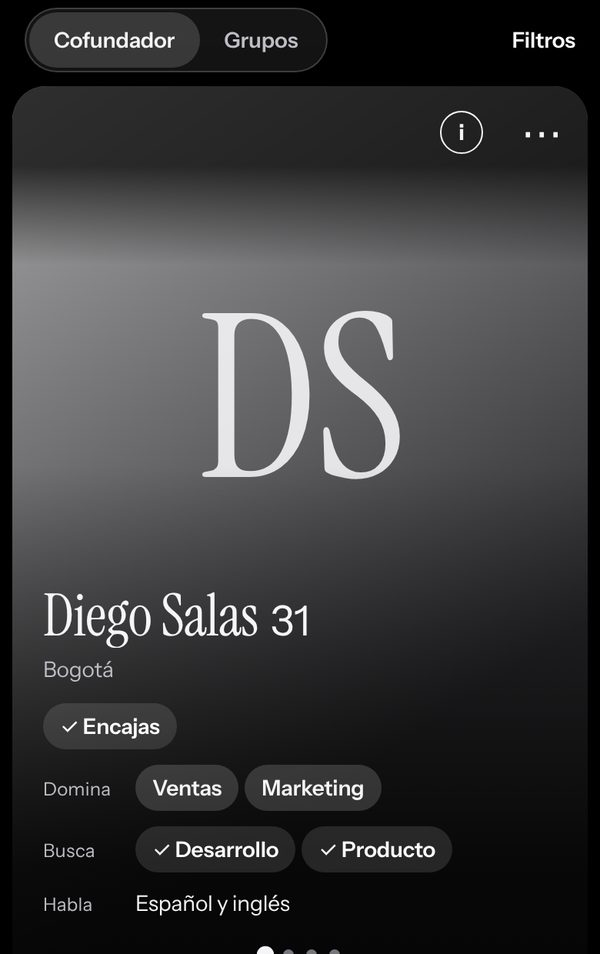
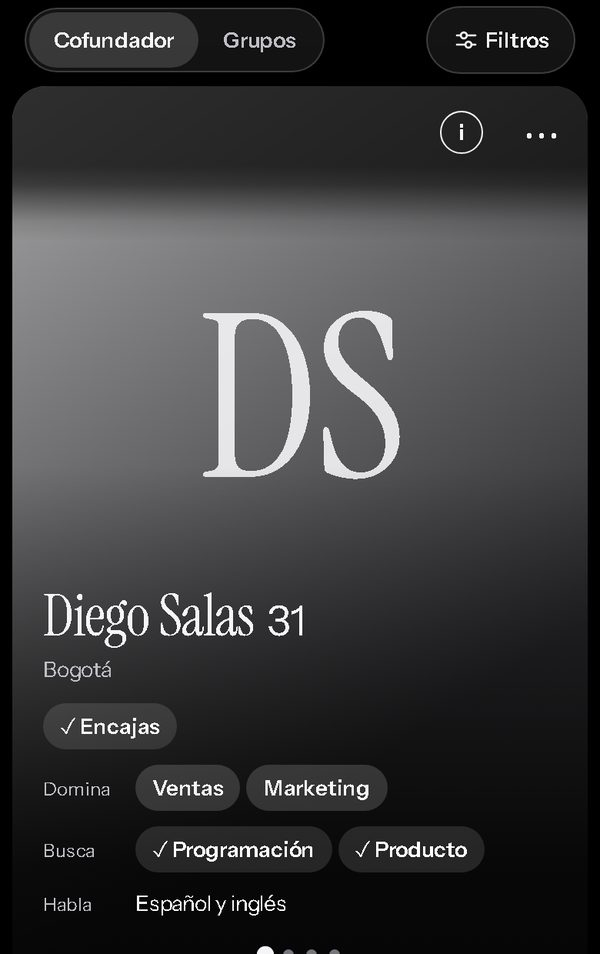
fix: conserva los borradores de grupos y recupera las fotos huérfanas

diff --git a/src/features/profile/project-editor.tsx b/src/features/profile/project-editor.tsx
@@ -68,6 +68,7 @@ export function ProjectEditor({
   matchId,
   groupProject = false,
   createWithGroup,
+  initialDraft,
   header,
   onClose,
   onSaved,
@@ -77,15 +78,16 @@ export function ProjectEditor({
   matchId?: string;
   groupProject?: boolean;
   /** El grupo y su proyecto se guardan juntos tras moderar todas las fotos. */
-  createWithGroup?: (draft: ProjectInput, draftId: string) => Promise<void>;
+  createWithGroup?: (draft: ProjectInput) => Promise<void>;
+  initialDraft?: ProjectInput;
   /** Controles propios de quien abre el editor, encima del formulario. */
   header?: ReactNode;
-  onClose: () => void;
+  onClose: (draft: ProjectInput) => void;
   onSaved: () => void;
 }) {
   const { projects } = useRepositories();
   const isJoint = !!matchId || (project?.authors?.length ?? 0) > 1;
-  const [draft, setDraft] = useState<ProjectInput>(project ?? empty);
+  const [draft, setDraft] = useState<ProjectInput>(project ?? initialDraft ?? empty);
   const [details, setDetails] = useState(false);
   const [confirm, setConfirm] = useState(false);
   const [busy, setBusy] = useState(false);
@@ -165,7 +167,7 @@ export function ProjectEditor({
   return (
     <ProjectBottomSheet
       onClose={() => {
-        if (!busy) onClose();
+        if (!busy) onClose(draft);
       }}>
       <ScrollView keyboardShouldPersistTaps="handled" contentContainerStyle={styles.form}>
         <ThemedText type="title">
@@ -257,7 +259,7 @@ export function ProjectEditor({
             void run(async () => {
               setReview(true);
               if (draft.photos.some((photo) => !photo.path)) setDetails(true);
-              if (createWithGroup) await createWithGroup(draft, draftId);
+              if (createWithGroup) await createWithGroup(draft);
               else if (!project && matchId) await projects.save(draft, undefined, draftId, matchId);
               else await projects.save(draft, project, project ? undefined : draftId);
             }, true)
@@ -302,7 +304,7 @@ export function ProjectEditor({
             />
           )
         ) : null}
-        <SecondaryButton label={t('Cancelar')} disabled={busy} onPress={onClose} />
+        <SecondaryButton label={t('Cancelar')} disabled={busy} onPress={() => onClose(draft)} />
       </ScrollView>
     </ProjectBottomSheet>
   );

diff --git a/src/data/mock/groups.ts b/src/data/mock/groups.ts
@@ -277,9 +277,13 @@ export function createMockGroupRepository(
         const existing = state.groups.find((entry) => entry.projectId === input.projectDraftId);
         if (existing?.adminId === actorId) {
           // Reintento tras perder la respuesta: con nadie más dentro, guarda el borrador actual.
-          if (membersOf(existing.id).some((member) => member.userId !== actorId))
+          if (
+            (input.draftGeneration ?? 0) <= (existing.draftGeneration ?? 0) ||
+            membersOf(existing.id).some((member) => member.userId !== actorId)
+          )
             return toView(existing);
           Object.assign(existing, {
+            draftGeneration: input.draftGeneration,
             name: input.name.trim(),
             description: input.description.trim(),
             maxMembers: input.maxMembers ?? 6,
@@ -320,6 +324,7 @@ export function createMockGroupRepository(
       const group: StoredGroup = {
         id: store.createId('group'),
         projectId: input.projectDraftId,
+        draftGeneration: input.draftGeneration,
         name: input.name.trim(),
         description: input.description.trim(),
         adminId: actorId,
@@ -414,9 +419,15 @@ export function createMockGroupRepository(
           const roles = rolesOf(group.id);
           const myRole = firstOpenRoleFor(roles, viewer.specialties);
           if (!myRole) return [];
+          const visibleGroup = toGroup(group);
+          if (
+            !state.appConfig.sharedProjectPhotos &&
+            (visibleGroup.project?.cover || visibleGroup.project?.photos.length)
+          )
+            return [];
           return [
             {
-              group: toGroup(group),
+              group: visibleGroup,
               roles: roles.map((role) => ({ ...role })),
               members: memberViews(group),
               myRole: { ...myRole },

diff --git a/src/features/groups/create-group-form.tsx b/src/features/groups/create-group-form.tsx
@@ -28,6 +28,7 @@ import {
   GROUP_MAX_MEMBERS,
   GroupError,
   PremiumRequiredError,
+  newProjectId,
   useRefreshQuery,
   useRepositories,
   validateGroupInput,
@@ -77,6 +78,9 @@ function GroupForm({
     initial ? (initial.group.project ? 'project' : 'people') : null
   );
   const [projectEditor, setProjectEditor] = useState<'new' | Project | null>(null);
+  const [projectDraftId] = useState(newProjectId);
+  const draftGeneration = useRef(0);
+  const [projectDraft, setProjectDraft] = useState<ProjectInput>();
   const [name, setName] = useState(initial?.group.name ?? '');
   const [description, setDescription] = useState(initial?.group.description ?? '');
   const [roles, setRoles] = useState<GroupRoleInput[]>(
@@ -168,7 +172,7 @@ function GroupForm({
     }
   }
 
-  async function createWithProject(project: ProjectInput, projectDraftId: string) {
+  async function createWithProject(project: ProjectInput) {
     try {
       const view = await repositories.groups.create({
         name,
@@ -176,6 +180,7 @@ function GroupForm({
         roles,
         project,
         projectDraftId,
+        draftGeneration: ++draftGeneration.current,
       });
       refreshMine();
       onSaved(view);
@@ -368,7 +373,11 @@ function GroupForm({
           groupProject
           canPromote={false}
           createWithGroup={editing ? undefined : createWithProject}
-          onClose={() => setProjectEditor(null)}
+          initialDraft={projectDraft}
+          onClose={(draft) => {
+            if (!editing) setProjectDraft(draft);
+            setProjectEditor(null);
+          }}
           onSaved={() => {
             setProjectEditor(null);
             if (editing) refreshMine();

diff --git a/supabase/functions/moderate-project/index.ts b/supabase/functions/moderate-project/index.ts
@@ -1,6 +1,7 @@
 import { createClient } from 'jsr:@supabase/supabase-js@2';
 import { moderateBoardImage } from '../_shared/moderate-board-image.ts';
 import { isObjectionable } from '../_shared/profile-content.ts';
+import { cleanRetiredProjectMedia } from '../_shared/retired-project-media.mjs';
 import { handleProject } from './logic.mjs';
 
 const admin = createClient(
@@ -26,18 +27,6 @@ async function removeFiles(paths: string[]) {
   if (!paths.length) return;
   const { error } = await bucket.remove(paths);
   if (error) throw error;
-}
-
-// Deleting a group in SQL revokes reads immediately. Drain its durable cleanup
-// queue through the Storage API, including after a transient Storage outage.
-async function cleanRetiredGroupMedia() {
-  const { data, error } = await admin.rpc('retired_group_project_media', {});
-  if (error) throw error;
-  const paths = data.map((row: { path: string }) => row.path);
-  if (!paths.length) return;
-  await removeFiles(paths);
-  const ack = await admin.rpc('retired_group_project_media', { p_removed: paths });
-  if (ack.error) throw ack.error;
 }
 
 Deno.serve(async (request) => {
@@ -190,6 +179,6 @@ Deno.serve(async (request) => {
       }
     },
   });
-  await cleanRetiredGroupMedia().catch(() => {});
+  await cleanRetiredProjectMedia(admin).catch(() => {});
   return response(result.status, result.body);
 });

diff --git a/test/app/group-routes.test.tsx b/test/app/group-routes.test.tsx
@@ -214,6 +214,9 @@ describe('/group/new', () => {
     await fireEvent.press(screen.getByRole('button', { name: 'Crear grupo' }));
     expect(await screen.findByText(/Ya estás en 3 grupos/)).toBeTruthy();
     expect(await repositories.groups.listMine()).toHaveLength(0);
+    await fireEvent.press(screen.getByRole('button', { name: 'Cancelar' }));
+    await fireEvent.changeText(screen.getByLabelText('Nombre del grupo'), 'Laboratorio nuevo');
+    await fireEvent.press(screen.getByRole('button', { name: 'Continuar al proyecto' }));
     await fireEvent.press(screen.getByRole('button', { name: 'Crear grupo' }));
     await waitFor(() => expect(router.back).toHaveBeenCalled());
     const [{ group }] = await repositories.groups.listMine();
@@ -223,6 +226,8 @@ describe('/group/new', () => {
       link: 'https://example.org',
     });
     expect(create.mock.calls[0][0].projectDraftId).toEqual(create.mock.calls[1][0].projectDraftId);
+    expect(create.mock.calls.map(([input]) => input.draftGeneration)).toEqual([1, 2]);
+    expect(group.name).toBe('Laboratorio nuevo');
   });
 });
 

diff --git a/supabase/functions/notify-group-message/index.ts b/supabase/functions/notify-group-message/index.ts
@@ -18,6 +18,7 @@
 import { createClient } from 'jsr:@supabase/supabase-js@2';
 
 import { EXPO_PUSH_URL, handlePushRequest, readConfig } from './logic.mjs';
+import { cleanRetiredProjectMedia } from '../_shared/retired-project-media.mjs';
 
 const admin = createClient(
   Deno.env.get('SUPABASE_URL')!,
@@ -42,6 +43,7 @@ Deno.serve(async (request) => {
       body,
       config: readConfig(Deno.env.toObject()),
       deps: {
+        cleanRetiredMedia: () => cleanRetiredProjectMedia(admin),
         async targets(id: string | null, type: string) {
           const dispatch: Record<string, [string, Record<string, string | null>]> = {
             'group-message': ['group_message_push_targets', { p_message_id: id! }],

diff --git a/src/data/types.ts b/src/data/types.ts
@@ -669,7 +669,10 @@ export interface GroupSettings {
 }
 
 export type GroupInput = GroupSettings &
-  ({ project?: never; projectDraftId?: never } | { project: ProjectInput; projectDraftId: string });
+  (
+    | { project?: never; projectDraftId?: never; draftGeneration?: never }
+    | { project: ProjectInput; projectDraftId: string; draftGeneration?: number }
+  );
 
 /**
  * Datos para editar un grupo que ya existe. `roles` es el conjunto completo

diff --git a/src/data/mock/store.ts b/src/data/mock/store.ts
@@ -41,7 +41,7 @@ export const CURRENT_USER_ID = 'me';
 /** Espejo de public.pass_cooldown() para los tres decks. */
 export const PASS_COOLDOWN_MS = 48 * 60 * 60 * 1000;
 
-export type StoredGroup = Omit<Group, 'project'> & { projectId?: string };
+export type StoredGroup = Omit<Group, 'project'> & { projectId?: string; draftGeneration?: number };
 
 export interface DecisionMeta {
   atMs: number;

diff --git a/docs/plan/TODO.md b/docs/plan/TODO.md
@@ -8,10 +8,11 @@ Fusionadas en la rama principal, por este orden, `perfil/programacion`, `chat/pr
 - [x] Calidad sobre el árbol fusionado: tsc, ESLint (0 errores), Prettier en lo tocado, Jest 2.366, esquema 334, funciones 124, guardias E2E 99. La suite de contrato contra Supabase corre en Actions.
 - [x] E2E de Maestro: `e2e/joint-project.yaml` (manual, dos cuentas emparejadas).
 - [x] `comprobador` en Android 16 con el mock (8f81bc1): «Programación» en alta y tarjeta, «Crear proyecto juntos» sobre los icebreakers, pestaña «Proyecto» con la tarea y la reunión antiguas, responsable/fecha/estado y filtro, tarjeta compacta y hoja, propuesta pendiente, notas, bloqueo, grupo de proyecto (botón «Crear grupo» desaparece, difuminado suave) y hoja sin deslizar con «reducir movimiento». Capturas en `e2e/artifacts/local/2026-11-19-integracion/`.
-- [ ] Con dos cuentas reales (aceptar la publicación, verlo en ambos perfiles y en el deck, despublicar al bloquear, tarjeta del propio grupo vista desde otra cuenta): espera a las migraciones en producción. Flujo: `e2e/joint-project.yaml`.
+- [x] Prueba de API en Supabase de producción con dos cuentas anónimas autenticadas y una tercera de lectura. La lectora vio ambos perfiles en el deck y la ficha en los dos perfiles tras el segundo consentimiento. El otro participante vio la tarjeta del grupo. El bloqueo retiró la publicación. Verificada la baja de todos los usuarios, perfiles y proyectos temporales. Evidencia local en `e2e/artifacts/local/2026-11-19-release/projects-7e107582-4f09-4b30-ab14-01cc572d223e.json`.
+- [ ] Prueba del cliente con dos cuentas de correo confirmadas. Flujo en `e2e/joint-project.yaml`.
 - [ ] CI: «Tests» (umbral de cobertura), «Formato» y «E2E Android» ya estaban en rojo antes de la fusión (`365c1bc`); el E2E cae en el alta y el login, antes de lo integrado. Schema drift rojo hasta aplicar las migraciones.
 - [x] Decisiones del usuario (2026-11-20) aplicadas en `20261120100000_shared_projects_followups.sql`: interruptor de fotos compartidas apagado, versión mínima, proyecto de quien se queda, match deshecho cerrado y por Realtime, reintento de grupo, orden por autor, versión de tareas y recordatorios cada 5 minutos. [Detalle](todo/chat.md#decisiones-del-usuario-2026-11-20--migración-20261120100000_shared_projects_followupssql)
-- [ ] Producción con el ok del usuario: migraciones `joint_projects`, `project_tasks_and_notifications`, `group_projects`, `group_deck_passes` y `shared_projects_followups`; desplegar `moderate-project` y `notify-group-message`.
+- [x] Las cinco migraciones están en el historial de producción como `20261120111317`, `20261120111319`, `20261120111320`, `20261120111321` y `20261120111323`. `moderate-project` v2 y `notify-group-message` v6 están activas. Fotos compartidas apagadas y versiones mínimas en 0.0.0.
 
 ## Grupos de proyecto
 

diff --git a/docs/plan/todo/chat.md b/docs/plan/todo/chat.md
@@ -8,7 +8,7 @@
 - [x] Aviso de creación, propuesta y eliminación con la preferencia de mensajes. Los recordatorios respetan la preferencia de recordatorios. La tarea vence a las 23:59 de la fecha local elegida. Se avisa a los responsables 24 horas antes y a ambos participantes 15 minutos antes de una reunión.
 - [x] Android 16 con el backend mock. Se comprobaron las dos entradas de creación y se creó «Atlas nuevo» desde el editor. La tarjeta abrió la ficha privada con las iniciales de ambos autores y el interruptor apagado. Al cerrar la ficha se recuperaron las cuatro secciones del espacio de trabajo. Capturas, jerarquías y registro del recorrido en `e2e/artifacts/local/2026-11-19-proyecto-conjunto/segunda/`.
 - [x] Revisión de Claude Code (2026-11-19) y fusión en la principal. Arreglado: un sondeo fallido ya no desmonta el chat ni el editor (`use-last-good.ts`).
-- [ ] Aprobación del despliegue: migraciones `20261119224029_joint_projects.sql` y `20261119224135_project_tasks_and_notifications.sql`, `moderate-project` y `notify-group-message`. Las fotos compartidas usan lecturas autenticadas de Storage (`storage.allow_only_operation(text)` existe en producción).
+- [x] Migraciones de proyectos conjuntos y recordatorios aplicadas en producción. `moderate-project` v2 y `notify-group-message` v6 activas. El cron de recordatorios corre cada cinco minutos.
 
 ### Decisiones del usuario (2026-11-20) — migración `20261120100000_shared_projects_followups.sql`
 
@@ -21,7 +21,7 @@
 - [x] **«Mover al principio»** por autor: `project_authors.promoted_at`.
 - [x] **Tareas**: `chat_plan_items.revision` (trigger `bump_plan_item_revision`); una edición con versión vieja da `PlanConflictError`, la app avisa y recarga.
 - [x] Recordatorios: `lockin-project-reminders` cada 5 minutos.
-- [ ] Más adelante: barrido de fotos `shared/` huérfanas si falla Storage al borrar el último autor.
+- [x] Barrido horario de fotos huérfanas de `board/shared/`. Las claves sin referencias con más de 24 horas entran en una cola persistente. La función confirma el lote después de borrarlo por la API de Storage. Probada la recuperación tras fallo de Storage y comprobado HTTP 200 en producción con la cola vacía.
 
 ## Texto libre en los chats · 17 de noviembre de 2026
 

diff --git a/docs/plan/todo/grupos.md b/docs/plan/todo/grupos.md
@@ -24,8 +24,8 @@ de los dos lados y dentro no hay jerarquía más allá de administrar (expulsar,
 - La migración distingue los bloqueos y las salidas históricos con los registros que dejó el esquema anterior. Cuando ambas direcciones tenían un pase y ya no hay membresía, conserva la exclusión para evitar reintroducir una expulsión. Esto también conserva fuera dos pases simultáneos de clientes antiguos. Si un bloqueo histórico perdió tanto el vínculo con el admin anterior como su registro de bloqueo, ya no se puede reconstruir. El esquema nuevo guarda el motivo explícitamente.
 - [x] Revisión de Claude Code (2026-11-19) y fusión en la principal. Arreglado tras `codex review`: solo se entra con dos likes guardados y vigentes; el pass hacia un grupo cuyo admin actual bloqueaste cuenta como bloqueo permanente; la salida del admin fundador queda anotada (también en el mock). Pruebas nuevas en `group-deck-passes-embedded.test.mjs`.
 - [x] Un reintento con el borrador cambiado tras perder la respuesta guarda el borrador actual en el mismo grupo (`20261120100000_shared_projects_followups.sql`). Con el interruptor de fotos apagado, un grupo de proyecto no lleva fotos.
-- [ ] Pendiente (codex review 2026-11-20): un reintento antiguo que llega después de uno nuevo puede restaurar el borrador viejo (falta una generación del borrador); si el interruptor de fotos se apaga con grupos con foto ya creados, esos grupos ocupan hueco en los 30 del deck y el cliente los descarta; el id del borrador vive en `ProjectEditor` y se pierde si se cierra la hoja para cambiar el grupo tras perder la respuesta.
-- [ ] Producción, pendiente de autorización: aplicar por orden `20261119233232_group_projects.sql` y `20261119233421_group_deck_passes.sql` (tras las dos del proyecto conjunto), desplegar `moderate-project` y distribuir el cliente.
+- [x] La generación del borrador impide que un reintento antiguo sobrescriba el grupo. El formulario conserva el id y la ficha al cerrar la hoja. El deck aplica el interruptor de fotos antes del límite de 30. Cubierto en PostgreSQL y en la prueba de la ruta de creación.
+- [x] Migraciones de grupos aplicadas en producción y `moderate-project` v2 activa. La distribución del cliente se sigue en el tablero maestro.
 
 ## Estado
 

diff --git a/docs/plan/todo/perfil.md b/docs/plan/todo/perfil.md
@@ -20,7 +20,7 @@
 - [x] Campos: nombre, edad, ubicación/zona horaria
 - [x] Especialidades (selección múltiple de tags)
 - [x] El catálogo muestra «Programación» (es), «Programació» (ca) y «Development» (en). Tanto las especialidades propias como las buscadas se guardan con el código `dev`.
-- [ ] Renovar las seis capturas de Descubrir, Grupos y Perfil en español y catalán de `assets/images/tour/` que todavía muestran «Desarrollo» o «Desenvolupament».
+- [x] Renovadas las seis capturas de Descubrir, Grupos y Perfil en español y catalán. La revisión visual de las imágenes de 600 × 954 confirma «Programación» y «Programació». Evidencia local en `e2e/artifacts/local/2026-11-19-release/tour-review.jpg`.
 - [x] Qué busco (Cofundador / Compañero de lock-in / Ambos)
 - [x] Qué debe dominar quien busco (mismos tags; solo en Cofundador / Ambos)
 - [x] Punto de partida (las 3 opciones de `docs/plan/CONCEPTO.md`)
